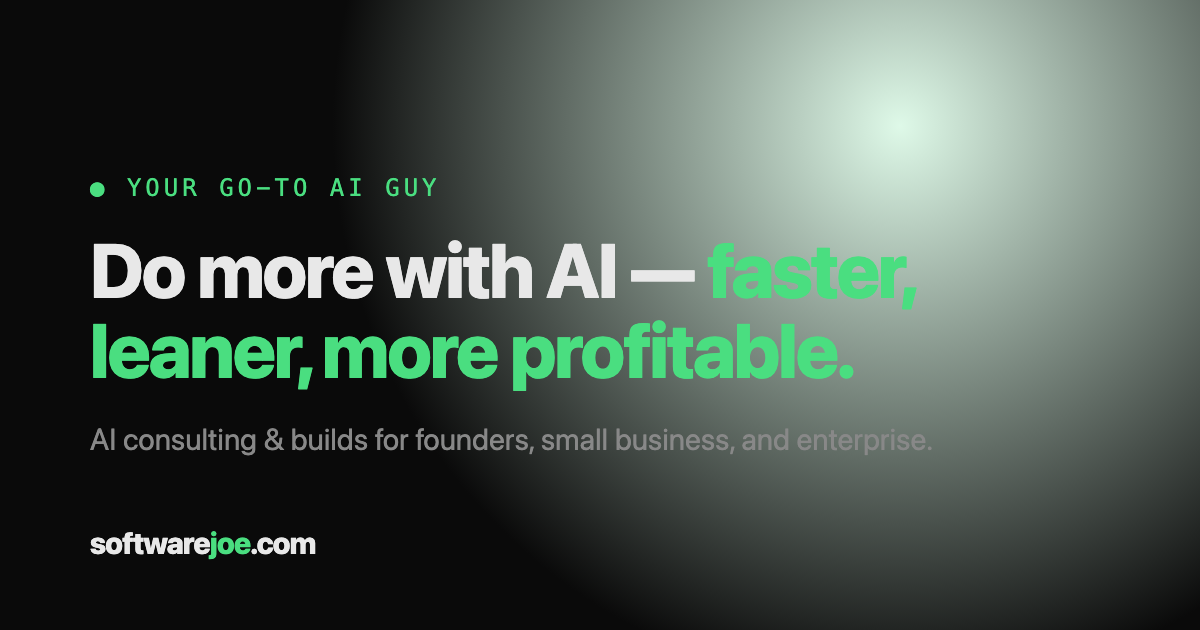
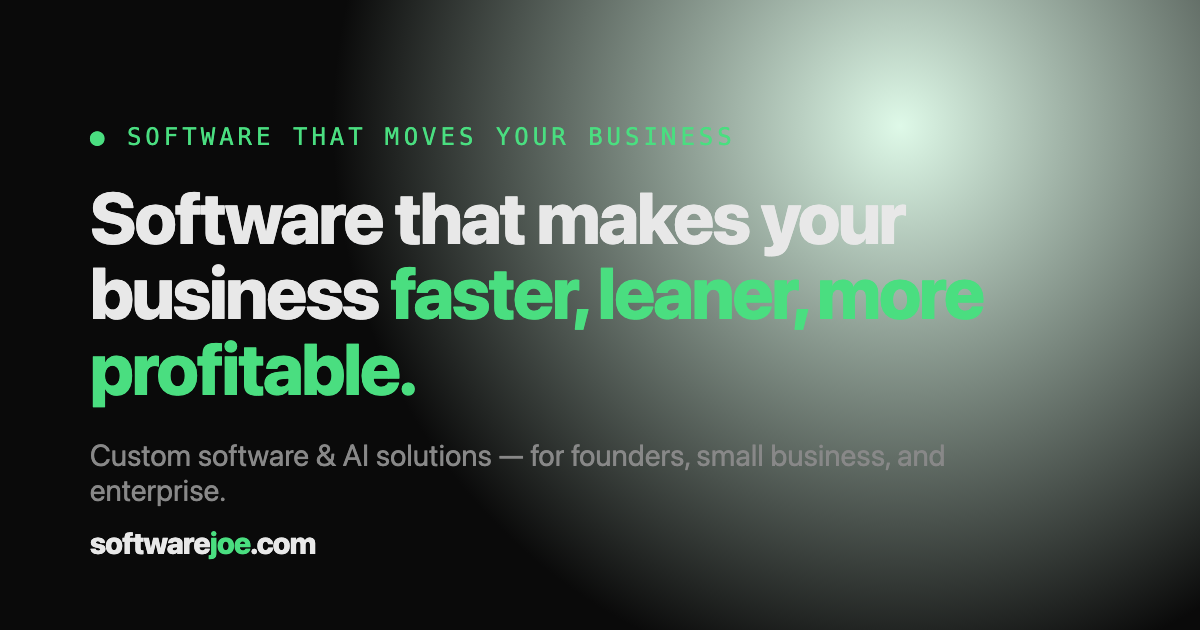
Reposition as software-first and embed Cal.com scheduler
- Reframe messaging from AI-only to software-first with AI as the edge
  (hero, value props, services, SEO title/description, structured data).
- Replace the scheduling-link placeholder with a themed Cal.com inline
  embed (softwarejoe/30min, dark theme + green brand color).
- Regenerate og-image.png to match the new positioning.

Changed region(s): [[0.0617, 0.2714, 0.8325, 0.6635], [0.0617, 0.6635, 0.8017, 0.8143], [0.0617, 0.181, 0.6167, 0.2413]]

diff --git a/index.html b/index.html
@@ -3,10 +3,10 @@
 <head>
     <meta charset="UTF-8">
     <meta name="viewport" content="width=device-width, initial-scale=1.0">
-    <title>Software Joe — Your Go-To AI Guy | AI Consulting & Builds</title>
-    <meta name="description" content="Senior AI engineer at a top tech company, helping businesses of every size become more productive, efficient, and profitable with AI. Book a free consultation.">
-    <meta property="og:title" content="Software Joe — Your Go-To AI Guy">
-    <meta property="og:description" content="AI consulting and builds for founders, small businesses, and enterprises. Start with a free consultation.">
+    <title>Software Joe — Custom Software & AI Solutions for Business</title>
+    <meta name="description" content="Senior software engineer building custom software and AI solutions that make businesses faster, leaner, and more profitable. Book a free consultation.">
+    <meta property="og:title" content="Software Joe — Custom Software & AI Solutions">
+    <meta property="og:description" content="I build software that makes businesses faster, leaner, and more profitable — with AI where it gives you an edge. Start with a free consultation.">
     <meta property="og:type" content="website">
     <meta property="og:url" content="https://softwarejoe.com">
     <meta property="og:image" content="https://softwarejoe.com/og-image.png">
@@ -15,8 +15,8 @@
     <meta property="og:site_name" content="Software Joe">
     <meta name="twitter:card" content="summary_large_image">
     <meta name="twitter:site" content="@CryptLFG">
-    <meta name="twitter:title" content="Software Joe — Your Go-To AI Guy">
-    <meta name="twitter:description" content="AI consulting and builds for founders, small businesses, and enterprises. Start with a free consultation.">
+    <meta name="twitter:title" content="Software Joe — Custom Software & AI Solutions">
+    <meta name="twitter:description" content="I build software that makes businesses faster, leaner, and more profitable — with AI where it gives you an edge.">
     <meta name="twitter:image" content="https://softwarejoe.com/og-image.png">
     <meta name="theme-color" content="#0a0a0a">
     <link rel="icon" type="image/svg+xml" href="/favicon.svg">
@@ -31,7 +31,7 @@
       "@context": "https://schema.org",
       "@type": "ProfessionalService",
       "name": "Software Joe",
-      "description": "AI consulting and builds helping businesses become more productive, efficient, and profitable with AI.",
+      "description": "Custom software and AI solutions that make businesses faster, leaner, and more profitable.",
       "url": "https://softwarejoe.com",
       "image": "https://softwarejoe.com/og-image.png",
       "email": "[email redacted]",
@@ -41,17 +41,17 @@
         "@type": "Person",
         "name": "Joe Fernandez",
         "alternateName": "Software Joe",
-        "jobTitle": "Senior AI Engineer & AI Consultant",
+        "jobTitle": "Senior Software Engineer & Consultant",
         "sameAs": [
           "https://x.com/CryptLFG",
           "https://linkedin.com/in/jfernandez1988"
         ]
       },
-      "knowsAbout": ["Artificial Intelligence", "AI Automation", "AI Agents", "Workflow Automation", "Business Productivity", "RAG", "AI Strategy"],
+      "knowsAbout": ["Software Development", "Custom Software", "Web Applications", "Workflow Automation", "Systems Integration", "Artificial Intelligence", "AI Agents", "Business Productivity"],
       "makesOffer": [
-        { "@type": "Offer", "name": "AI Strategy Consultation" },
-        { "@type": "Offer", "name": "AI Implementation & Builds" },
-        { "@type": "Offer", "name": "AI Systems & Products" }
+        { "@type": "Offer", "name": "Software & AI Strategy Consultation" },
+        { "@type": "Offer", "name": "Custom Software & AI Builds" },
+        { "@type": "Offer", "name": "Systems & Products" }
       ]
     }
     </script>
@@ -70,12 +70,12 @@
     <main id="top">
         <!-- Hero -->
         <header class="hero">
-            <div class="eyebrow">Your go-to AI guy</div>
-            <h1>I help businesses do more with AI — <span class="accent">faster, leaner, more profitable.</span></h1>
+            <div class="eyebrow">Software that moves your business</div>
+            <h1>I build software that makes your business <span class="accent">faster, leaner, and more profitable</span> — with AI where it gives you an edge.</h1>
             <p class="subtitle">
-                I'm Joe — a senior AI engineer at a leading tech company. By day I build AI at scale.
-                The rest of the time I help founders, small businesses, and enterprises turn AI from hype
-                into real productivity, efficiency, and profit.
+                I'm Joe — a senior software engineer. I build the right solution for the problem:
+                well-built, dependable software, with AI layered in when it gives you a real edge.
+                For founders, small businesses, and enterprises alike.
             </p>
             <div class="hero-cta">
                 <a href="#book" class="cta-button" data-cta="hero_book">Book a free consultation</a>
@@ -95,17 +95,17 @@
             <div class="value-card">
                 <div class="value-icon">&#9889;</div>
                 <h3>More productive</h3>
-                <p>Automate the busywork. I find the repetitive, time-draining tasks in your business and replace them with AI that just works.</p>
+                <p>Kill the busywork and the bottlenecks. Custom tools and automation — AI-powered when it helps — that hand your team their time back.</p>
             </div>
             <div class="value-card">
                 <div class="value-icon">&#9881;</div>
                 <h3>More efficient</h3>
-                <p>Cut cost and friction. Smarter workflows, tighter systems, and the right tools — so your team ships more with less.</p>
+                <p>Cut cost and friction. Better software, tighter workflows, and the right systems — so your team ships more with less.</p>
             </div>
             <div class="value-card">
                 <div class="value-icon">&#128200;</div>
                 <h3>More profitable</h3>
-                <p>AI that moves the bottom line — not a science project. Every build is tied to a real outcome you can measure.</p>
+                <p>Technology tied to the bottom line — not a science project. Every build maps to a real outcome you can measure.</p>
             </div>
         </section>
 
@@ -120,12 +120,12 @@
             <div class="service-list">
                 <div class="card featured">
                     <div class="card-label">Step 1 &middot; Start here</div>
-                    <h2>AI Strategy Consultation</h2>
-                    <p>A focused session to map where AI actually pays off in your business — and where it's a distraction. You leave with a clear, prioritized action plan.</p>
+                    <h2>Strategy Consultation</h2>
+                    <p>A focused session to find where better software — and AI, where it fits — actually pays off in your business. You leave with a clear, prioritized action plan.</p>
                     <ul class="feature-list">
                         <li>Audit of your workflows &amp; biggest time sinks</li>
-                        <li>Concrete AI opportunities ranked by ROI</li>
-                        <li>Tooling recommendations (no vendor fluff)</li>
+                        <li>Opportunities ranked by real ROI</li>
+                        <li>Straight tech recommendations (no vendor fluff)</li>
                         <li>A plan you can act on with or without me</li>
                     </ul>
                     <a href="#book" class="cta-button" data-cta="services_book">Book a free consultation</a>
@@ -133,12 +133,12 @@
 
                 <div class="card">
                     <div class="card-label">Step 2 &middot; Build</div>
-                    <h2>Implementation &amp; Builds</h2>
-                    <p>I build the thing. Custom AI tools, automations, agents, and integrations — wired into the systems you already use.</p>
+                    <h2>Custom Software &amp; AI</h2>
+                    <p>I build the thing. Web apps, internal tools, automations, integrations — and AI features layered in when they earn their place.</p>
                     <ul class="feature-list">
-                        <li>Custom AI tools &amp; internal agents</li>
+                        <li>Web &amp; internal apps, dashboards, tools</li>
                         <li>Workflow automation &amp; integrations</li>
-                        <li>RAG, chat assistants, and data pipelines</li>
+                        <li>AI agents, assistants &amp; data pipelines</li>
                         <li>Built right, documented, and handed off</li>
                     </ul>
                 </div>
@@ -167,7 +167,7 @@
                 <div class="process-step">
                     <div class="step-num">01</div>
                     <h3>Book a call</h3>
-                    <p>Tell me what's slow, manual, or expensive. We figure out if AI can fix it.</p>
+                    <p>Tell me what's slow, manual, or expensive. We figure out the right way to fix it.</p>
                 </div>
                 <div class="process-step">
                     <div class="step-num">02</div>
@@ -186,15 +186,12 @@
         <section id="book" class="section">
             <div class="card featured contact-card">
                 <div class="card-label">Let's talk</div>
-                <h2>Ready to put AI to work?</h2>
+                <h2>Ready to build something that works?</h2>
                 <p>Book a free consultation, or send a message and I'll get back to you fast. No pressure, no jargon — just a straight conversation about what's possible.</p>
 
-                <!-- Primary CTA: scheduling -->
-                <div class="book-cta">
-                    <!-- TODO: replace href with your scheduling link (e.g. https://calendly.com/yourname/intro) -->
-                    <a href="REPLACE_WITH_SCHEDULING_LINK" class="cta-button" data-cta="book">Book a free consultation</a>
-                    <span class="book-or">or send a message below</span>
-                </div>
+                <!-- Cal.com inline embed (softwarejoe/30min), themed dark with the site's green brand color. -->
+                <div class="cal-embed" id="cal-inline"></div>
+                <p class="book-or">Prefer to talk first? Send a message below.</p>
 
                 <!-- Contact form: posts to /api/contact (Vercel serverless fn → Resend). -->
                 <form class="contact-form" id="contact-form" action="/api/contact" method="POST">
@@ -216,7 +213,7 @@
     <!-- Footer -->
     <footer>
         <div class="footer-inner">
-            <p>softwarejoe.com &mdash; AI consulting &amp; builds by Joe</p>
+            <p>softwarejoe.com &mdash; custom software &amp; AI by Joe</p>
             <div class="social-icons">
                 <a href="https://x.com/CryptLFG" target="_blank" rel="noopener" title="X / Twitter">
                     <svg viewBox="0 0 24 24" width="20" height="20" fill="currentColor"><path d="M18.244 2.25h3.308l-7.227 8.26 8.502 11.24H16.17l-5.214-6.817L4.99 21.75H1.68l7.73-8.835L1.254 2.25H8.08l4.713 6.231zm-1.161 17.52h1.833L7.084 4.126H5.117z"/></svg>
@@ -228,6 +225,22 @@
         </div>
     </footer>
 
+    <!-- Cal.com inline embed loader -->
+    <script type="text/javascript">
+      (function (C, A, L) { let p = function (a, ar) { a.q.push(ar); }; let d = C.document; C.Cal = C.Cal || function () { let cal = C.Cal; let ar = arguments; if (!cal.loaded) { cal.ns = {}; cal.q = cal.q || []; d.head.appendChild(d.createElement("script")).src = A; cal.loaded = true; } if (ar[0] === L) { const api = function () { p(api, arguments); }; const namespace = ar[1]; api.q = api.q || []; if (typeof namespace === "string") { cal.ns[namespace] = cal.ns[namespace] || api; p(cal.ns[namespace], ar); p(cal, ["initNamespace", namespace]); } else p(cal, ar); return; } p(cal, ar); }; })(window, "https://app.cal.com/embed/embed.js", "init");
+      Cal("init", "30min", { origin: "https://app.cal.com" });
+      Cal.ns["30min"]("inline", {
+        elementOrSelector: "#cal-inline",
+        config: { layout: "month_view" },
+        calLink: "softwarejoe/30min"
+      });
+      Cal.ns["30min"]("ui", {
+        theme: "dark",
+        cssVarsPerTheme: { dark: { "cal-brand": "#4ade80" } },
+        hideEventTypeDetails: false,
+        layout: "month_view"
+      });
+    </script>
     <script src="tracking.js"></script>
     <script src="form.js"></script>
 </body>

diff --git a/style.css b/style.css
@@ -321,18 +321,25 @@ main {
 /* Contact */
 .contact-card { text-align: center; }
 
-.book-cta {
-    display: flex;
-    flex-direction: column;
-    align-items: center;
-    gap: 0.5rem;
-    margin: 1.5rem 0;
+/* Match the contact card to the Calendly embed's themed background (#141414)
+   so the calendar blends in seamlessly with no contrasting band. */
+.contact-card.featured {
+    background: var(--surface);
+}
+
+.cal-embed {
+    width: 100%;
+    min-height: 580px;
+    margin: 1.25rem 0 0.5rem;
+    overflow: hidden;
 }
 
 .book-or {
-    font-size: 0.8rem;
+    font-size: 0.85rem;
     color: var(--text-muted);
     font-style: italic;
+    margin: 1.25rem 0;
+    text-align: center;
 }
 
 .contact-form {